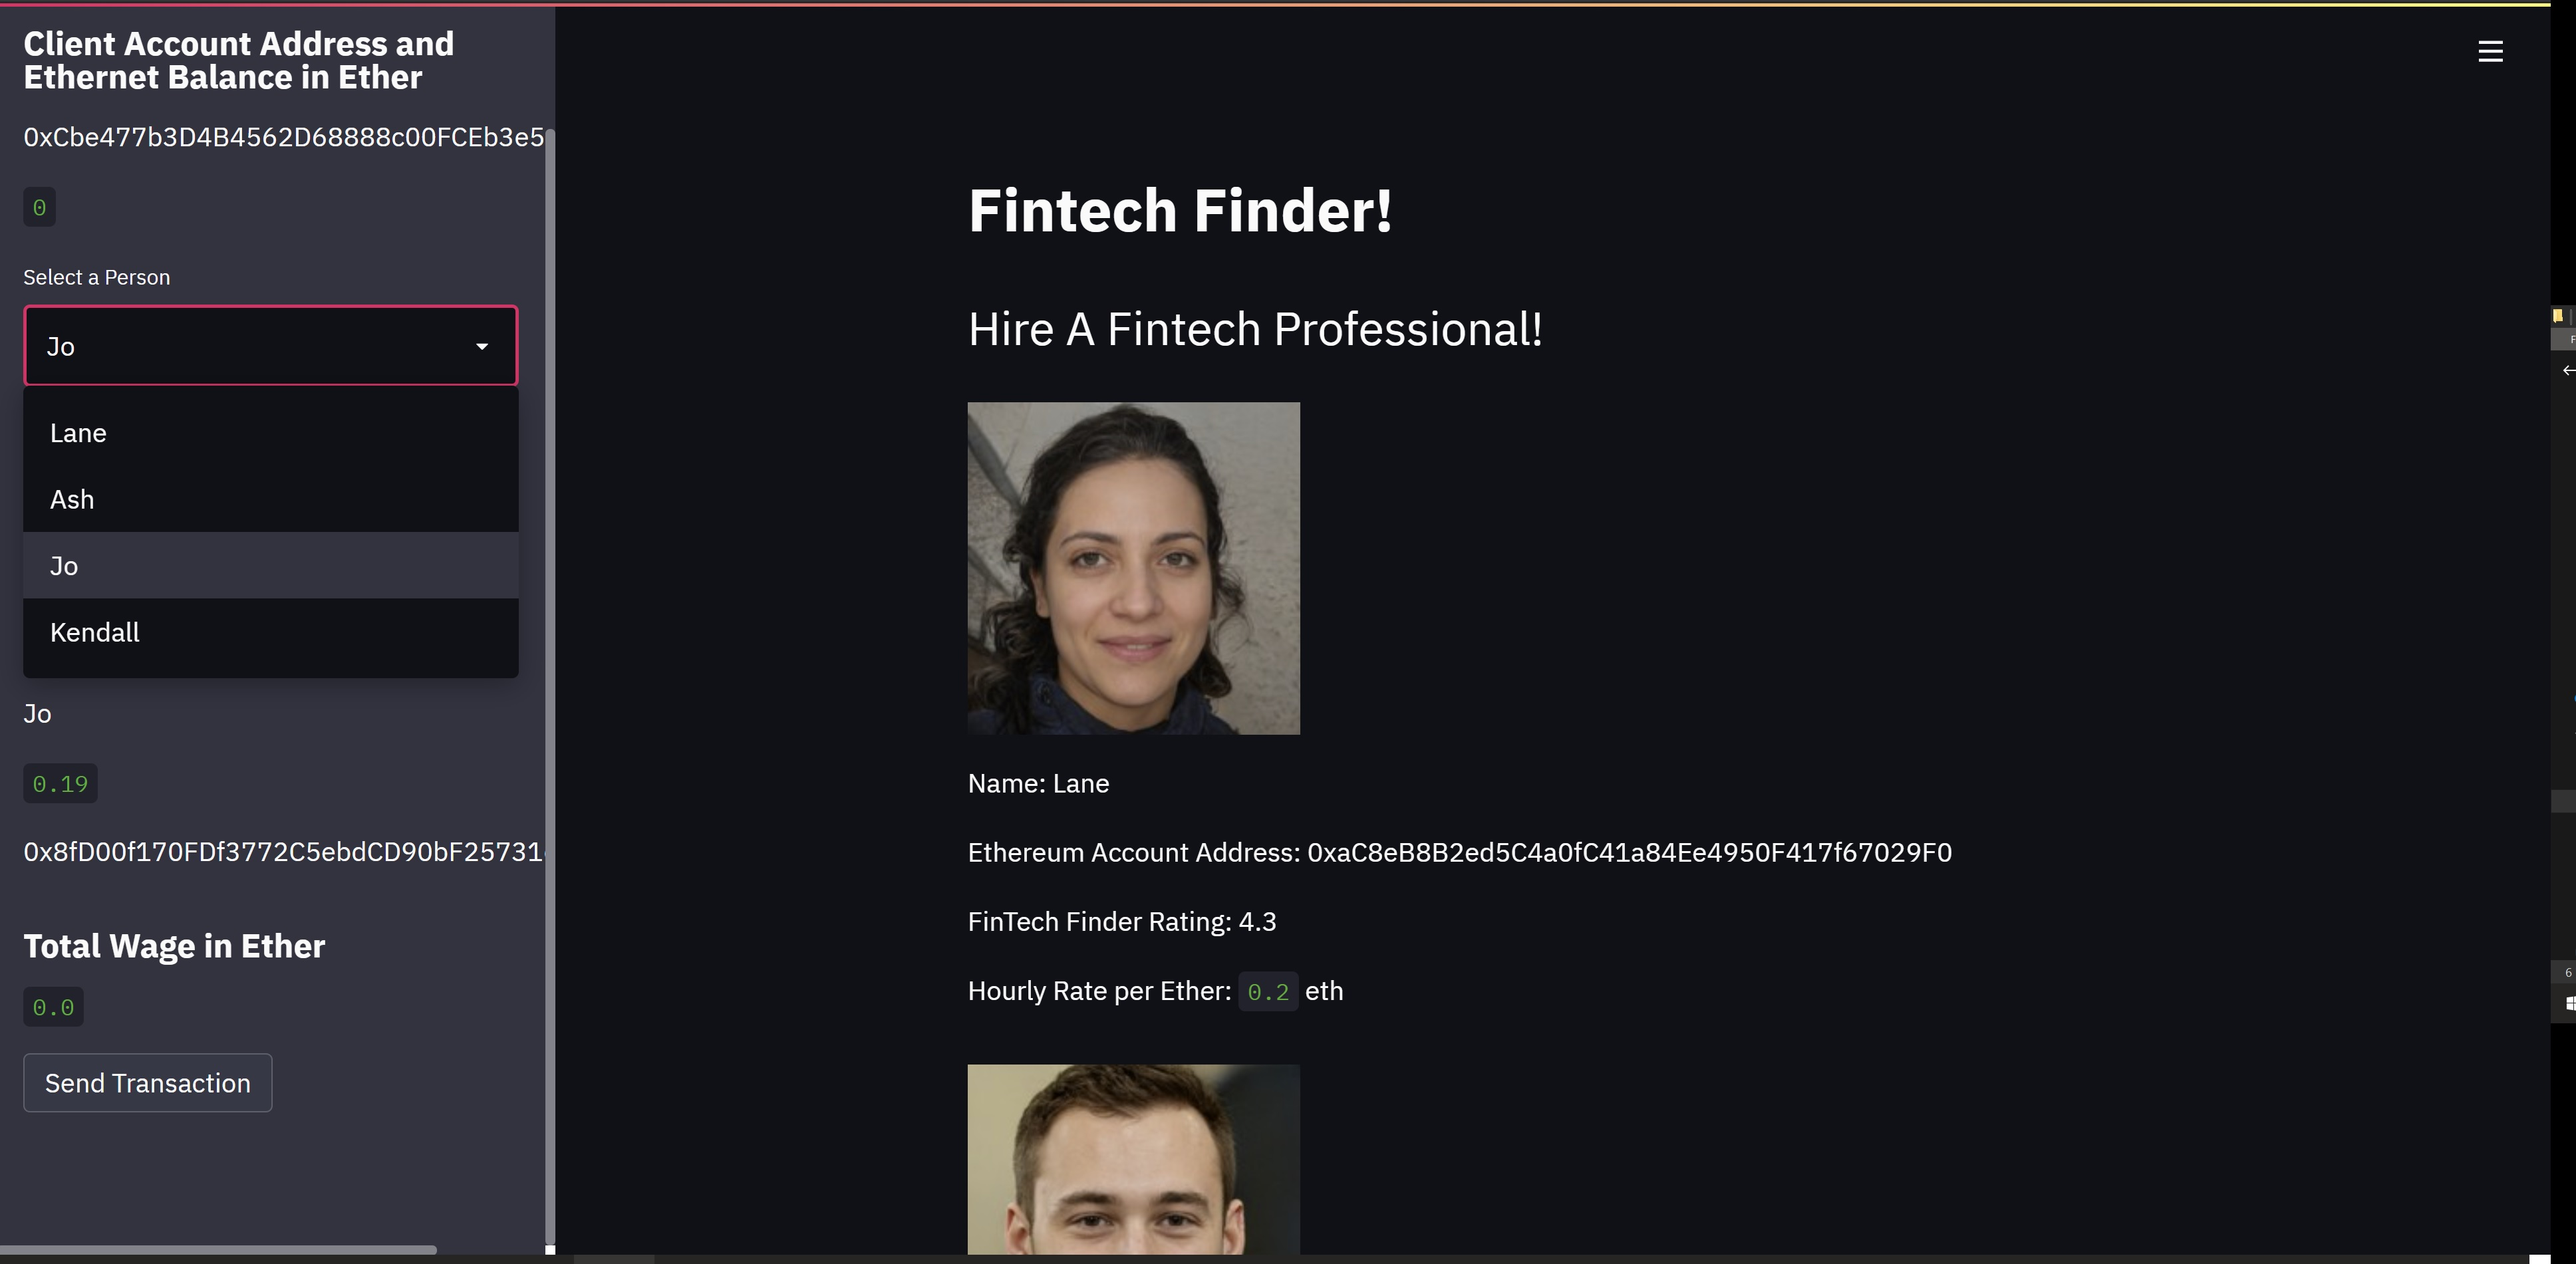
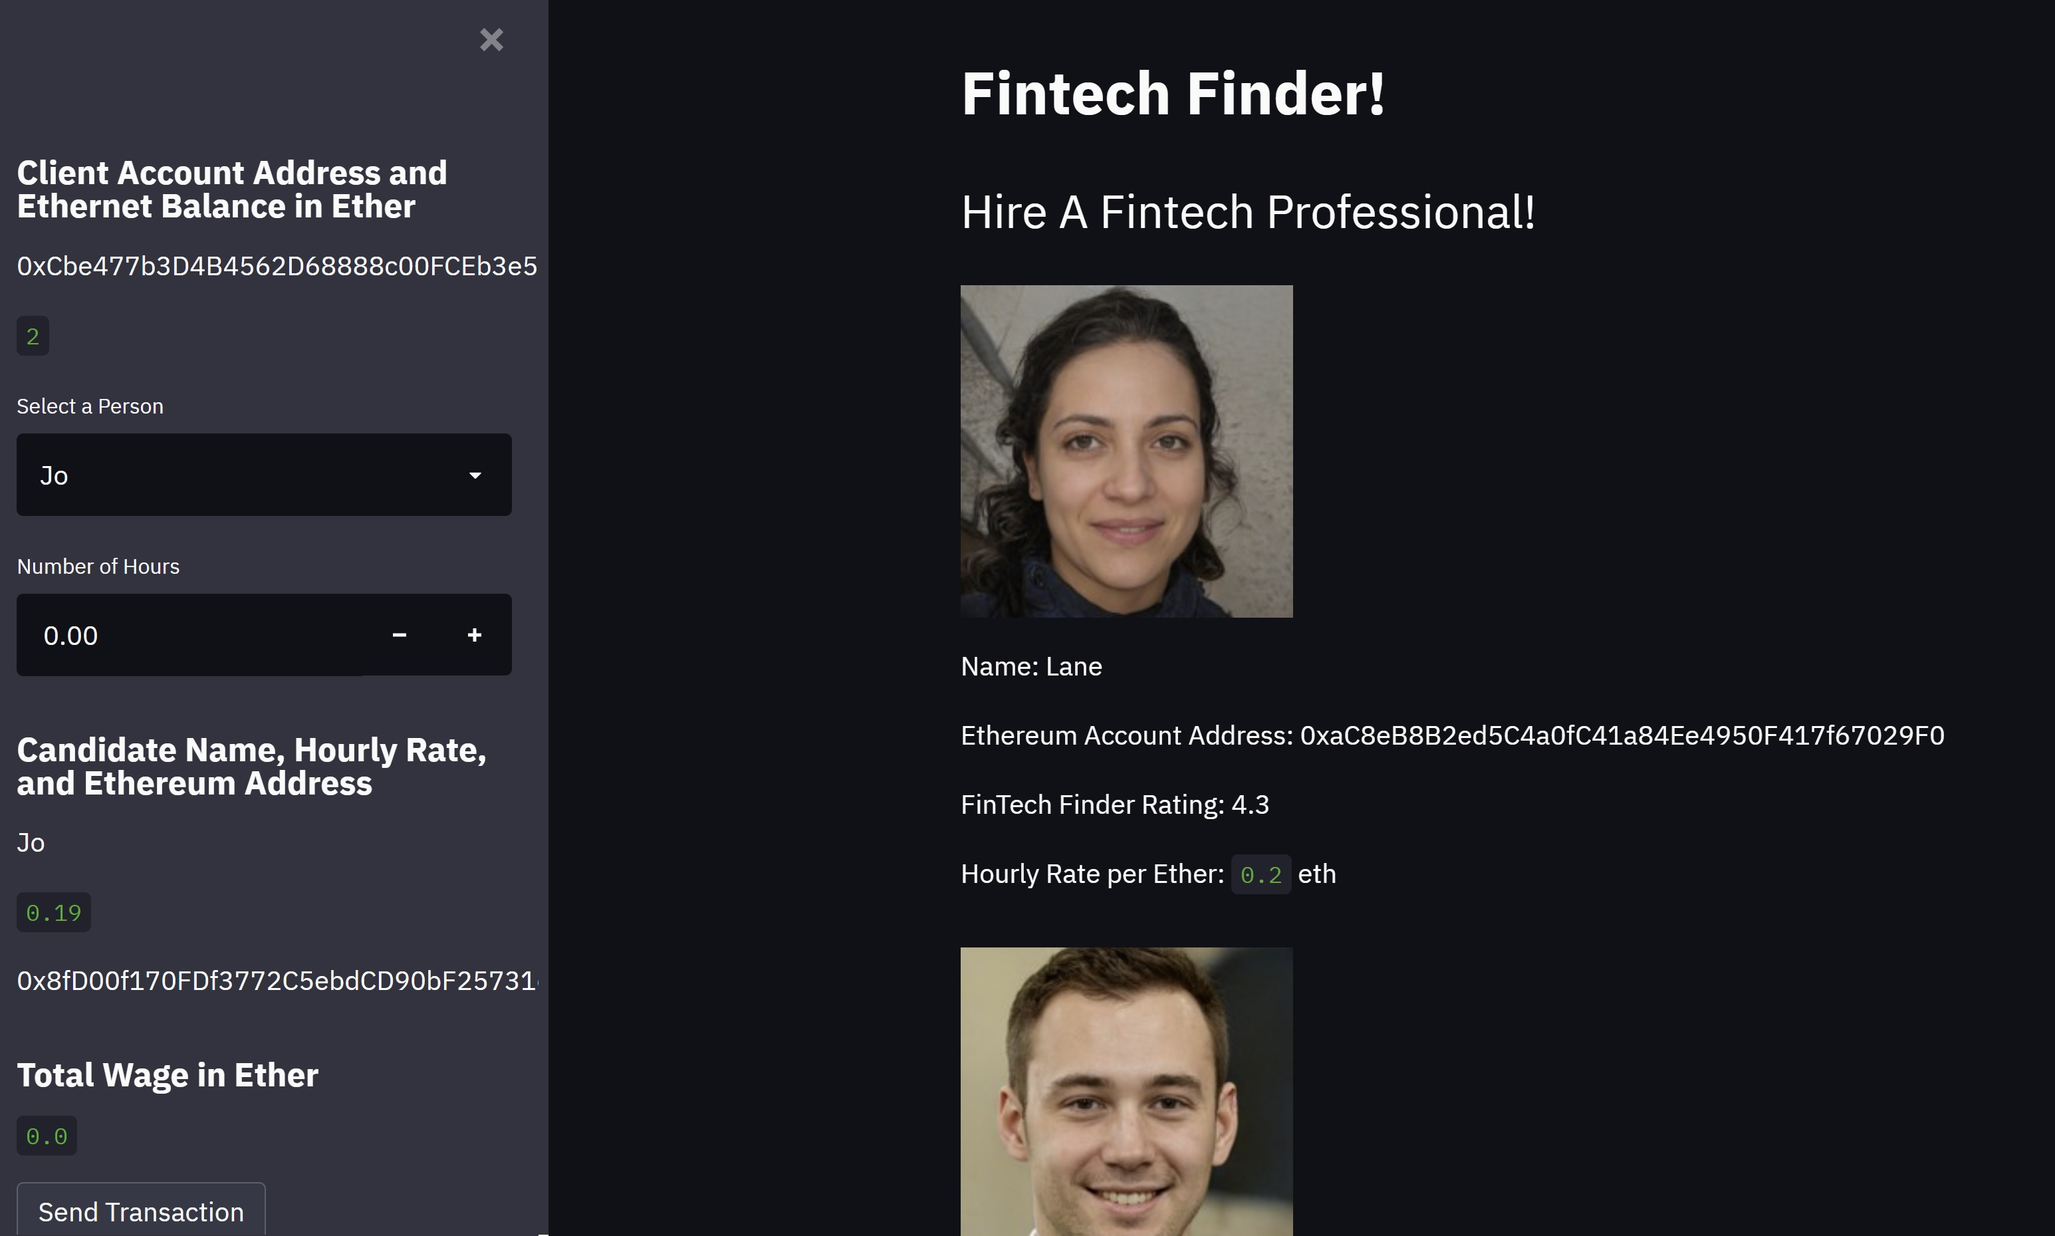
transactions

diff --git a/fintech_finder/README.md b/fintech_finder/README.md
@@ -6,3 +6,11 @@
 ### test ether recieved
 ![test eth recieve](Images/test_eth_received.jpg)
 
+### my balance after paying Jo
+![balance after paying Jo](jo_paid_home_page.jpg)
+
+### my balance on etherscan
+![my balance on etherscan](mybalance.jpg)
+
+### Jo's balance on etherscan
+![Jo's balance on ether scan](jo_balance.jpg)
